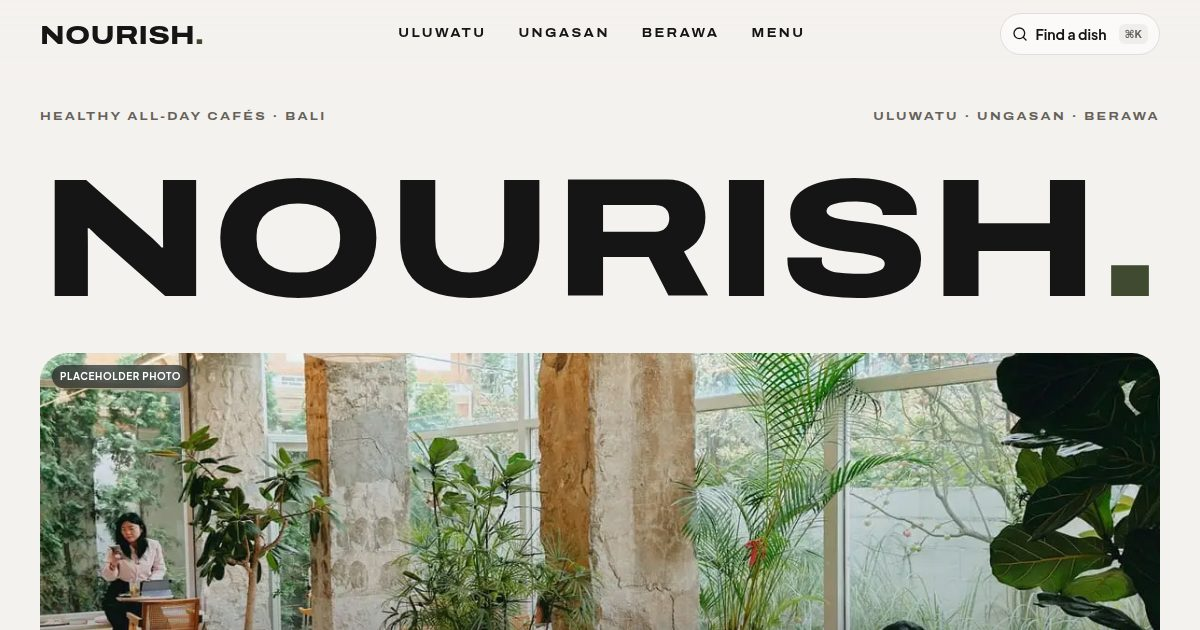
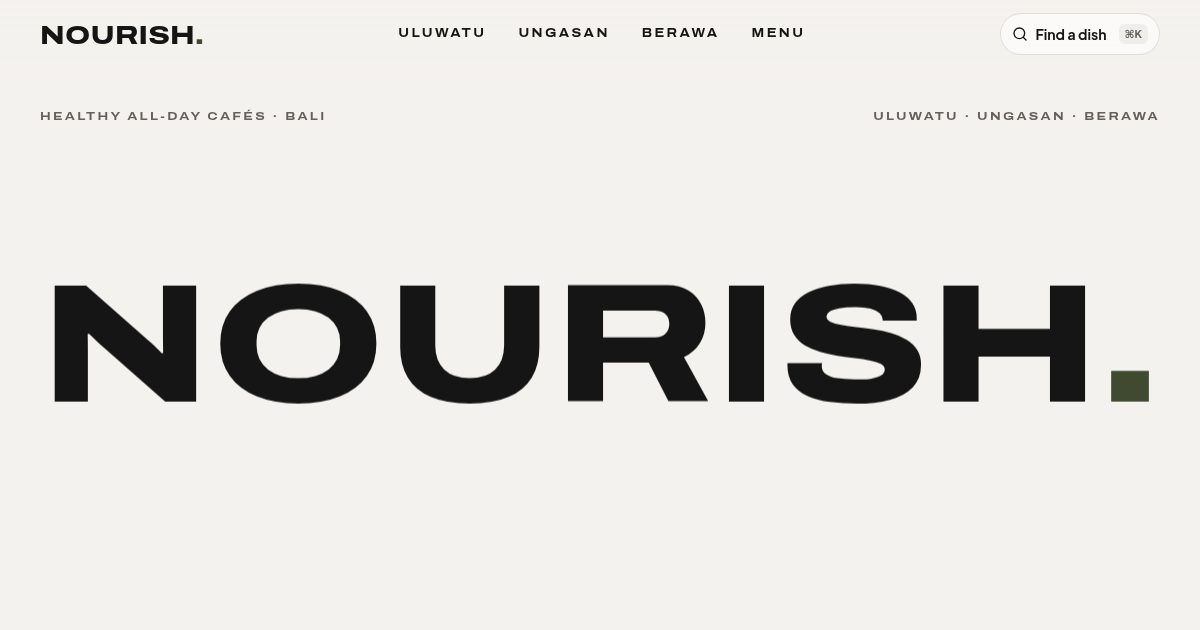
Give the home hero a full first screen and gentle motion
Andika found the hero photo too close to the wordmark and the opening too
static. The first screen now holds only the eyebrow lines, NOURISH. and a
"Scroll" cue (min-height: 100svh minus the header), so the photo starts just
below the fold and appears after a short scroll.

Motion, all off under prefers-reduced-motion:
- On load the wordmark rises out of its line, then the accent dot and the
  small labels fade in; the scroll cue runs a thin line downward.
- On scroll (scroll-driven animations where supported) the wordmark eases
  back and the photo grows from 92% into place.

The view() timeline is set in its own, more specific rule: the CSS minifier
folds animation-timeline into the animation shorthand, which browsers
reject, so the whole declaration was being dropped. The unused global
.reveal class had the same problem and is removed.

Link previews: og.mjs hides the scroll cue and drops leftover shader code;
home.jpg regenerated.

Claude-Session: https://claude.ai/code/session_013tQGCiY753tR2s8oiw8xg2

diff --git a/src/styles/global.css b/src/styles/global.css
@@ -336,27 +336,6 @@
   }
 }
 
-/* Scroll-triggered reveals (CSS scroll-driven where supported, static otherwise). */
-@supports (animation-timeline: view()) {
-  @media (prefers-reduced-motion: no-preference) {
-    .reveal {
-      animation: reveal linear both;
-      animation-timeline: view();
-      animation-range: entry 5% cover 28%;
-    }
-    @keyframes reveal {
-      from {
-        opacity: 0;
-        transform: translateY(2.5rem) scale(0.98);
-      }
-      to {
-        opacity: 1;
-        transform: none;
-      }
-    }
-  }
-}
-
 @media (prefers-reduced-motion: reduce) {
   *,
   *::before,
